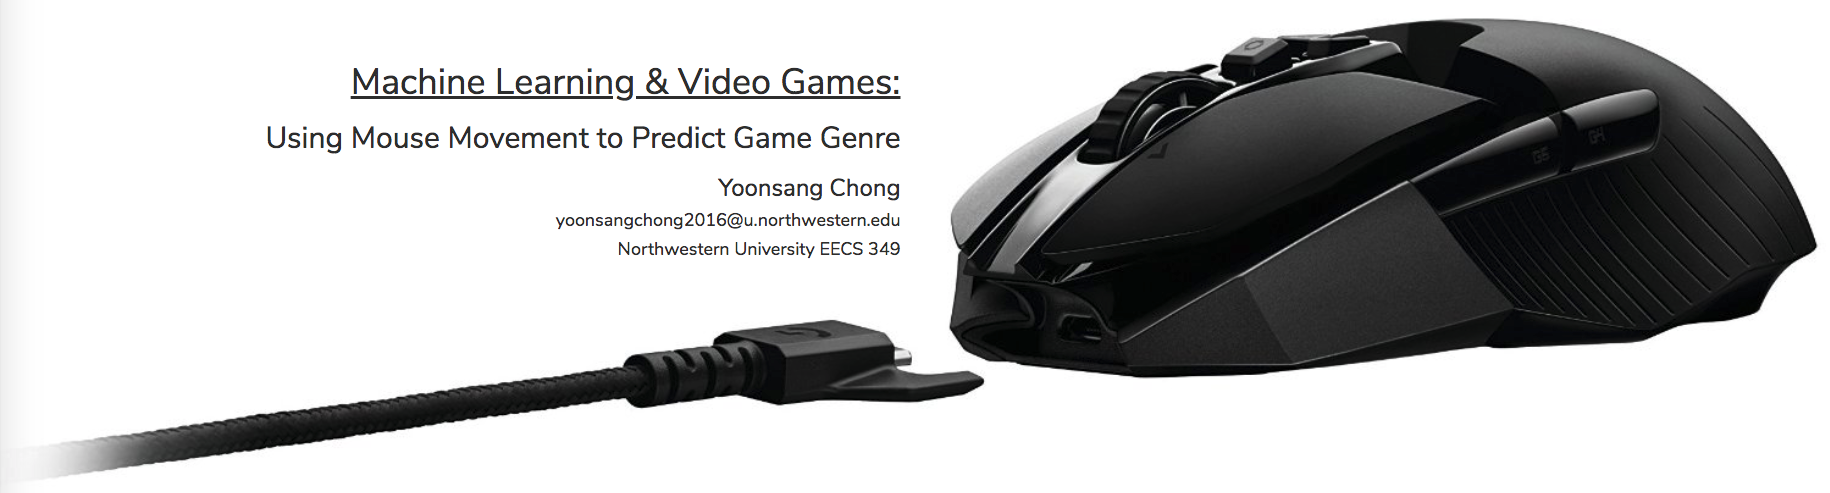
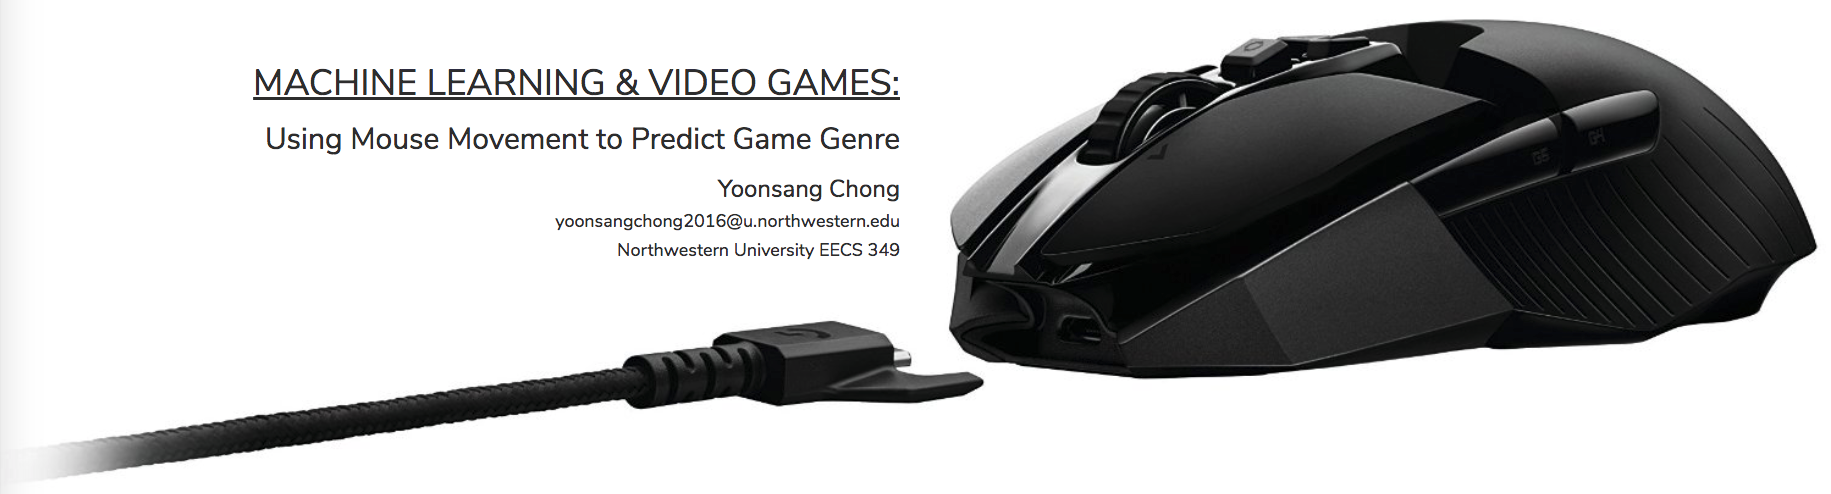
comp

diff --git a/index.html b/index.html
@@ -10,7 +10,7 @@
   <body>
 
     <div class="col-md-5 col-md-offset-1 text-right header">
-      <u><h1>Machine Learning & Video Games:</h1></u>
+      <u><h1>MACHINE LEARNING & VIDEO GAMES:</h1></u>
       <h2>Using Mouse Movement to Predict Game Genre</h2>
       <h3>Yoonsang Chong</h3>
       <h4>yoonsangchong2016@u.northwestern.edu</h4>
@@ -18,17 +18,17 @@
     </div>
 
     <div class="col-md-8 col-md-offset-3 intro">
-      <p><div class="tab">C</div>an a machine tell what type of game a person is playing, just given a visual representation of their in-game mouse movements? If so, it could signify a new avenue for gaming mouse software developers to explore, where a mouse can interact with a gamer with the same personalization and usefulness as other types of modern “smart” technology. An obvious initial usage would be for a mouse to automatically adjust its sensitivity as its user switches between different games, or between gaming and not gaming. This would enable seamless transitions between activities, and take the manual work off of users’ hands. But the possibilities go much beyond that; using movements to analyze play style, we might be able to help recommend games of similar "activeness," pinpoint specific areas for players to improve their skills, or offer developers a tool to assist them design gameplay mechanics and systems that reach their target audience.</p>
+      <p><div class="tab">C</div>an a machine tell what type of game a person is playing, just given a visual representation of their in-game mouse movements? If so, it could signify a new avenue for gaming mouse software developers to explore, where a mouse can interact with a gamer with the same personalization and usefulness as other types of modern “smart” technology. An obvious initial usage would be for a mouse to automatically adjust its sensitivity as its user switches between different games, or between gaming and not gaming. This would enable seamless transitions between activities, and take the manual work off of users’ hands. But the possibilities go much beyond that; using movements to analyze play style, we might be able to recommend games of similar "activeness," pinpoint specific areas for players to improve upon their skills, or offer developers a tool to help them design gameplay mechanics and systems that reach their target audience.</p>
     </div>
 
     <div class="col-md-12 black">
       <div class="col-md-5 col-md-offset-1">
         <p><div class="tab"></div>The initial hurdle to answering this question lay in which machine learning algorithm to use. Luckily, in the case of image classification, there is a popular option and for good reason: convolutional neural nets have been proven to be quite effective at recognizing patterns in images, even if the images at first may seem very different in terms of their underlying machine representation. The idea is to translate the images into 3-dimensional arrays of RGB values, then feed them into a convolutional neural network designed to output predictions of the images' labels.</p>
-        <p><div class="tab"></div>The resulting trained model turned out to be more effective than expected. When training on the three main genres of games on which data was collected (FPS, RTS, and card games), the network was capable of achieving near 100% accuracy in the task of distinguishing a particular genre from others with only several tens of examples. With some tuning of parameters, a near instant perfect accuracy could be achieved. However, a weakness of the model, or perhaps an oversight with regards to the task in general, arose when comparing other portions of the collected data. Certain genres, although strikingly different in gameplay, share almost identical patterns of movement, and the limited scope of the data prevented a further investigation into whether or not they could be classified effectively by a CNN.</p>
+        <p><div class="tab"></div>In some ways, the resulting trained model turned out to be more effective than expected. When training on the three main genres of games on which data was collected (FPS, RTS, and card games), the network was capable of achieving near 100% accuracy in the task of distinguishing a particular genre from others with only several tens of examples. With some tuning of parameters, a near instant perfect accuracy could be achieved. However, a weakness of the model, or perhaps an oversight concerning the task in general, arose when comparing other portions of the collected data. Certain genres, although strikingly different in gameplay, share almost identical patterns of movement, and the limited scope of the data prevented a further investigation into whether or not they could be classified effectively by a CNN.</p>
       </div>
       <div class="col-md-4 col-md-offset-1 text-center">
-        <img class="img" src="images/example.png">
-        <i><p class="caption">One of the examples that shows the result of tracking mouse movements in the real-time strategy game, Starcraft II.</p></i>
+        <img class="example-img" src="images/example.png">
+        <p class="caption">One of the examples that shows the result of tracking mouse movements in the real-time strategy game, StarCraft II.</p>
       </div>
     </div>
 
@@ -42,9 +42,69 @@
     <div class="col-md-12 black">
       <div class="col-md-5 col-md-offset-1 text-center">
         <p class="section-title">DATASET</p>
+        <p class="section-subtitle">GENERATION AND PREPROCESSING</p>
       </div>
       <div class="col-md-5">
-        <p><div class="tab"></div>The dataset is comprised of 400</p>
+        <p><div class="tab"></div>The dataset is comprised of just under 500 examples, with around 400 of them belonging to one of the 3 main genres between which the model showed high classification success: first-person shooter (FPS), real-time strategy (RTS), and card games. Although the original plan was to gather data on a wider range of genres, two issues arose that prevented that. First, the time cost of generating the data, even with several people assisting, proved to be a restricting factor when it came to how much experimentation could be done. But, at the same time, early observations revealed a possibility that was later corroborated by the gathered data: <i>genre differences are not all necessarily captured by mouse movement patterns</i>.</p>
+      </div>
+      <div class="col-md-5">
+        <p><div class="tab"></div>As can be seen in the example data points below, some genres, although they might seem very distinct to the players (see RTS & MOBA), are seemingly indistinguishable when only given their tracking data. This seemed like a fair supposition, so rather than to spend valuable resources on potentially trivial pursuits, future data generation was focused on the genres with which the model showed promise in preliminary testing. These genres each have unique characteristics in their mouse patterns, clear to the human eye, that can act as sources of predictive power when training a neural network.</p>
+      </div>
+    </div>
+
+    <div class="col-md-12 text-center inner-pad">
+      <div class="col-md-4">
+        <img class="img" src="images/card.png">
+        <p class="dark-caption">Hearthstone – Card Game</p>
+      </div>
+      <div class="col-md-4">
+        <img class="img" src="images/fps.png">
+        <p class="dark-caption">Overwatch – First-Person Shooter (FPS)</p>
+      </div>
+      <div class="col-md-4">
+        <img class="img" src="images/moba.png">
+        <p class="dark-caption">League of Legends – Massive Online Battle Arena (MOBA)</p>
+      </div>
+      <div class="col-md-4 col-md-offset-2">
+        <img class="img" src="images/rpg.png">
+        <p class="dark-caption">Diablo III – Top-Down Hack'n'Slash Role Playing Game (RPG)</p>
+      </div>
+      <div class="col-md-4">
+        <img class="img" src="images/rts.png">
+        <p class="dark-caption">StarCraft II – Real-Time Strategy (RTS)</p>
+      </div>
+    </div>
+
+    <div class="col-md-12 black">
+      <div class="col-md-5 col-md-offset-1">
+        <p><div class="tab"></div>The data was split into training, validation, and testing sets with a standard ratio of 80/20/20. Due to the small nature of the dataset, it is important to maximize the size of the training set so as to give the model as much information as possible to learn from. On the other hand, if the validation or testing sets are too small, it becomes difficult to assess the true growth and capabilities of the model. So, a standard ratio was employed to maintain a balance.</p>
+        <p><div class="tab"></div>Originally, the data was going to be used in its original 2560x1440 resolution form, however, the extreme memory costs quickly made that an unviable choice. So, the images, once loaded into tensorflow, were reshaped to a 10x magnitude smaller size of 256x144 – although really the data was actually in 3-dimensional arrays, with each pixel in the 246x144 space being represented by an array of length 3, specifying RGB values. This manipulation of the inputs enabled them to be used to train models, and given the accuracies of the predictive results, it likely did not have any significant trade off in terms of loss of potential information gain.</p>
+        <p><div class="tab"></div>The data was also all converted into B&W (as seen on the right) to check whether IOGraph’s (the program used to track the mouse movements) color scheme was influencing the capabilities of the model in any way. The findings seem to suggest that the impact is negligible. As when using the colored versions of the input images, it only took around 30 iterations of single-step single-example descent training for the model to achieve a 100% accuracy on the validation set.</p>
+      </div>
+      <div class="col-md-4 col-md-offset-1 text-center">
+        <img class="example-img" src="images/example-bw.png">
+        <p class="caption">An example of using thresholding to create a completely black & white variant of an image.</p>
+      </div>
+    </div>
+
+    <div class="col-md-12 inner-pad">
+      <div class="col-md-5 col-md-offset-1 text-center">
+        <p class="section-title">METHODS</p>
+        <p class="section-subtitle"></p>
+      </div>
+      <div class="col-md-5">
+        <p><div class="tab"></div>There was only one type of machine learning algorithm used, and that was a convolutional neural network written in Python using tensorflow. Because the model had to be created and tuned manually through code, it was a fairly time consuming process. However, there were plenty of parameters to manipulate given this approach, which left a fair amount of room for experimentation within this specific model. The results and analyses of this “learning process design” follows.</p>
+        <p><div class="tab"></div>One could presume that using a convolutional neural network to classify images of fixed sizes and fixed absolute anchors to which all movements are relative (the center of the screen) is unnecessary, as the strength of CNNs lay in their ability to detect patterns in different sections of images. But, the use of multilayer deep networks have more perks than simply being able to account for translation. The process of convolution and pooling means that small differences can be generalized to the same patterns, which is a useful feature for input data as volatile as mouse movement, where the exact angles at which the lines are made is anything but calculative.</p>
+      </div>
+    </div>
+
+    <div class="col-md-12 black">
+      <div class="col-md-5">
+
+      </div>
+      <div class="col-md-5 col-md-offset-1 text-center">
+        <p class="section-title">RESULTS</p>
+        <p class="section-subtitle">ANALYSIS & REFLECTION</p>
       </div>
     </div>
 

diff --git a/css/master.css b/css/master.css
@@ -32,7 +32,11 @@ body {
   padding: 3vw 0px;
 }
 
-.img {
+.inner-pad {
+  padding: 3vw 0px;
+}
+
+.example-img {
   margin-top: 6vw;
   width: 100%;
 }
@@ -40,11 +44,19 @@ body {
 .caption {
   color: lightgrey;
   font-size: 1vw;
+  font-style: italic;
   margin-top: 0.5vw;
 }
 
+.dark-caption {
+  color: grey;
+  font-size: 1vw;
+  font-style: italic;
+  margin-top: 0.4vw;
+}
+
 .pad {
-  margin-bottom: 6vw;
+  margin-bottom: 5vw;
   width: 100%;
 }
 
@@ -57,5 +69,16 @@ body {
 
 .section-title {
   font-size: 6vw;
-  margin: 10vw 0;
+  margin-top: 12vw;
+  margin-bottom: 3vw;
+}
+
+.section-subtitle {
+  font-size: 2vw;
+  margin-bottom: 12vw;
+}
+
+.img {
+  margin: 1.5vw 1.5vw 0 1.5vw;
+  width: calc(100% - 3vw);
 }
